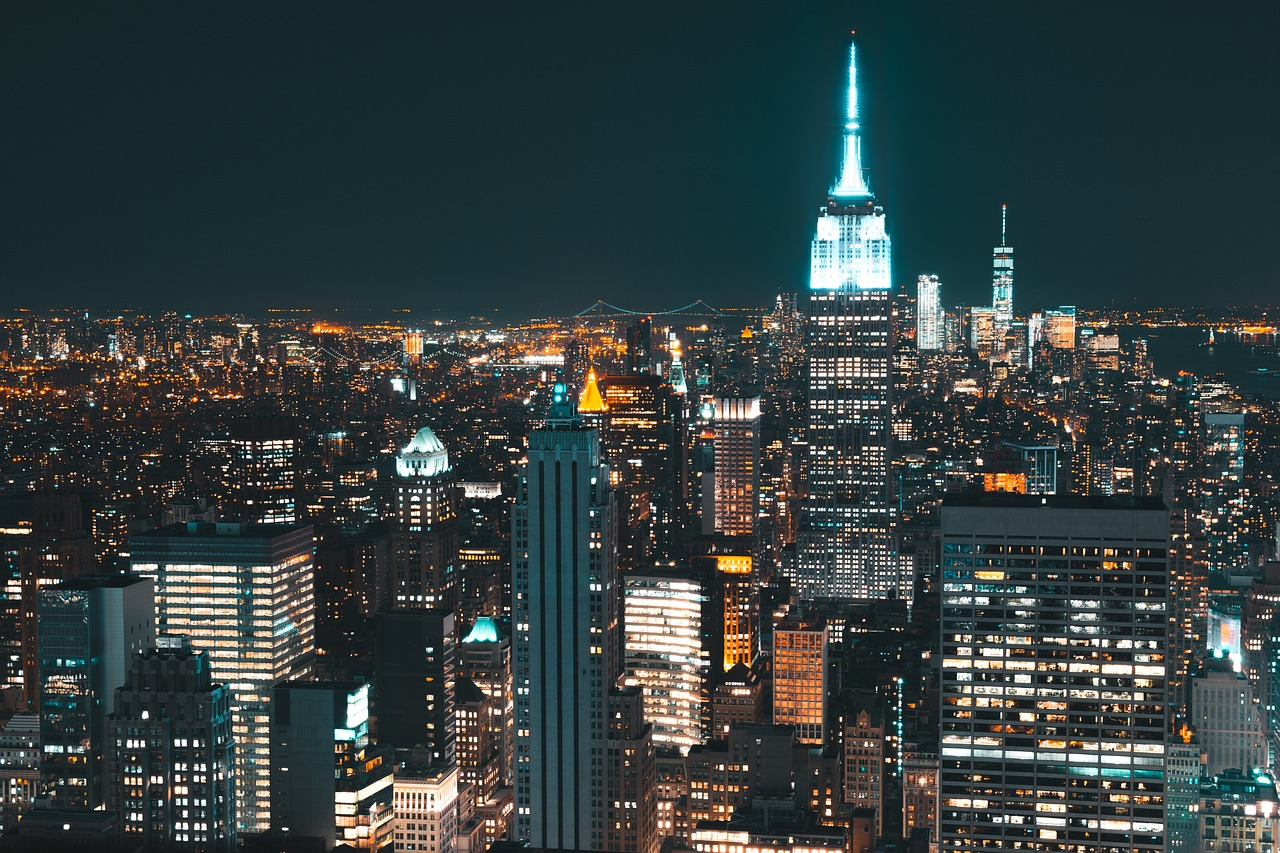
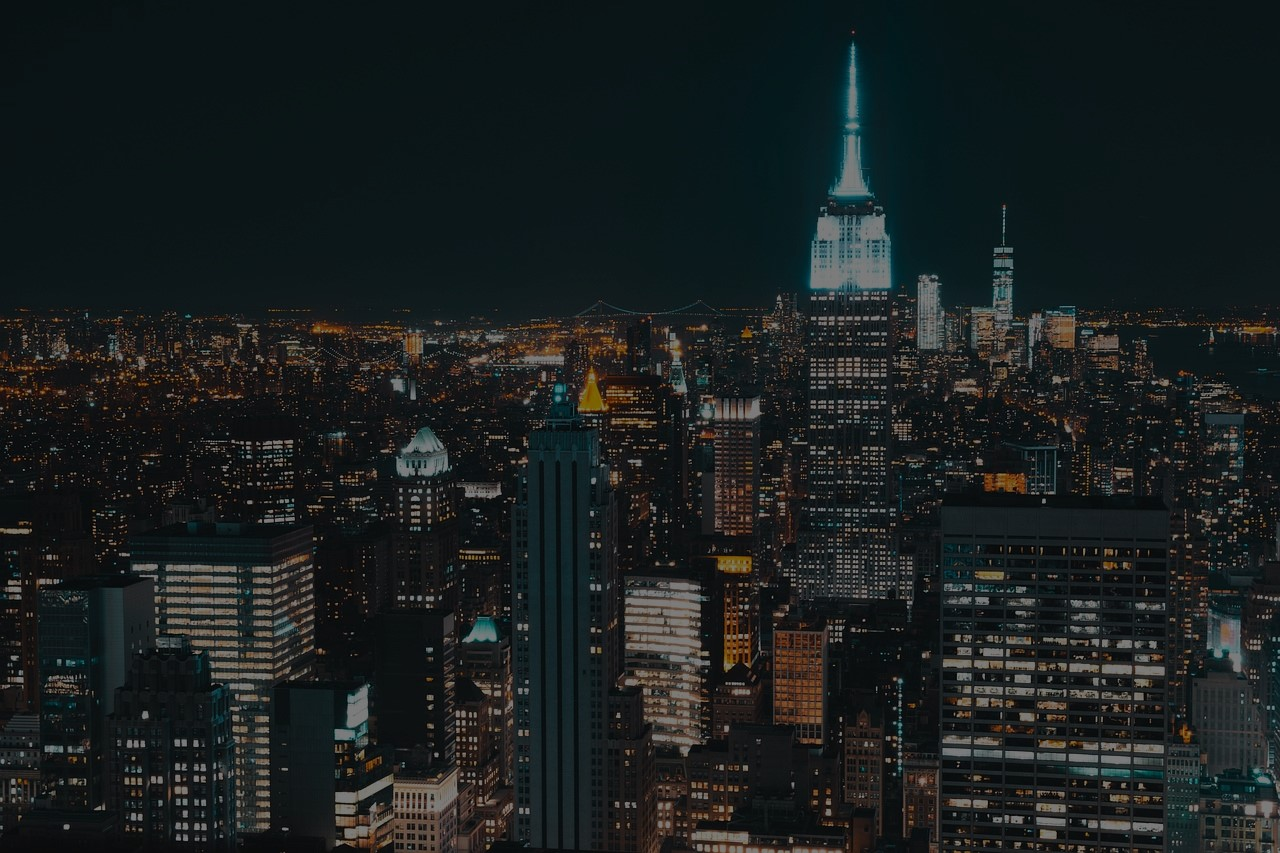
Design change
Heb de homepage en projecten en toekomstige pagina's layout aangepast.

diff --git a/public/css/app.css b/public/css/app.css
@@ -2,12 +2,14 @@
 @tailwind components;
 @tailwind utilities;
 
-*{
-    margin: 0 auto;
-    text-align: center;
+nav a{
+    color: white !important;
 }
 
+/*Home page*/
 #home{
+    margin: 0 auto;
+    text-align: center;
     background-image: url('../images/background-home.jpg') !important;
 }
 
@@ -21,5 +23,33 @@
 
 .center a{
     color: white;
+    font-size: 25px;
 }
 
+.center h1{
+    font-size: 45px;
+    padding-bottom: 10px;
+    border-bottom: 2px solid white;
+}
+
+#aboutme{
+    margin-right: 15px;
+}
+
+/*Project page*/
+.filters{
+    border-radius: 7px;
+    background-color: gray;
+    color: white;
+    text-align: center;
+}
+
+.project{
+    width: 80%;
+}
+
+/*algemeen*/
+
+.min-h-screen.bg-gray-100 {
+    background-image: url('../images/background-home.jpg') !important;
+}

diff --git a/resources/views/layouts/navigation.blade.php b/resources/views/layouts/navigation.blade.php
@@ -1,18 +1,19 @@
-<nav x-data="{ open: false }" class="bg-white border-b border-gray-100">
+<nav x-data="{ open: false }" style="width: 70%; border-bottom: 2px solid white; margin: 0 auto;">
+    <link rel="stylesheet" href="{{asset('css/app.css')}}">
     <!-- Primary Navigation Menu -->
     <div class="max-w-7xl mx-auto px-4 sm:px-6 lg:px-8">
         <div class="flex justify-between h-16">
             <div class="flex">
                 <!-- Logo -->
                 <div class="shrink-0 flex items-center">
-                    <a href="{{ route('dashboard') }}">
-                        <x-application-logo class="block h-9 w-auto fill-current text-gray-800" />
+                    <a href="/">
+                        <h2><span style="color: darkcyan">H</span>ome</h2>
                     </a>
                 </div>
 
                 <!-- Navigation Links -->
                 <div class="hidden space-x-8 sm:-my-px sm:ml-10 sm:flex">
-                    <x-nav-link :href="route('dashboard')" :active="request()->routeIs('dashboard')">
+                    <x-nav-link :href="route('projects.index')" :active="request()->routeIs('projects.index')">
                         {{ __('Dashboard') }}
                     </x-nav-link>
                 </div>

diff --git a/resources/views/project2.blade.php b/resources/views/project2.blade.php
@@ -1,0 +1,31 @@
+<x-app-layout>
+    <x-slot name="header">
+        {{-- Hier komt het filter systeem --}}
+    </x-slot>
+
+    <div class="py-12">
+        <div class="max-w-7xl mx-auto sm:px-6 lg:px-8">
+            <div class="filters">
+                @foreach($caterogies as $caterogy)
+                    <p>{{$caterogy->name}}</p>
+                @endforeach
+            </div>
+            <div class="bg-white overflow-hidden shadow-sm sm:rounded-lg">
+                <div class="p-6 text-gray-900">
+                    <div class="projects">
+                        {{-- Foreach ... as .... --}}
+                        <div class="project">
+                            <div class="image">
+                                <img src="../../public/images/background-home.jpg" alt="test.jpg">
+                            </div>
+                            <div class="title">
+                                <p>Test</p>
+                            </div>
+                        </div>
+                        {{-- endforeach --}}
+                    </div>
+                </div>
+            </div>
+        </div>
+    </div>
+</x-app-layout>

diff --git a/resources/views/project.blade.php b/resources/views/project.blade.php
@@ -1,14 +1,16 @@
 <x-app-layout>
-    <x-slot name="header">
-        {{-- Hier komt het filter systeem --}}
-    </x-slot>
+    <!DOCTYPE html>
+    <html lang="en">
+    <head>
+        <link rel="stylesheet" href="{{asset('css/app.css')}}">
+        <meta charset="UTF-8">
+        <meta name="viewport" content="width=device-width, initial-scale=1.0">
+        <meta http-equiv="X-UA-Compatible" content="ie=edge">
+        <link rel="stylesheet" href="https://stackpath.bootstrapcdn.com/bootstrap/4.5.2/css/bootstrap.min.css" >
+        <title>Forum</title>
+    </head>
 
-    <div class="py-12">
-        <div class="max-w-7xl mx-auto sm:px-6 lg:px-8">
-            <div class="bg-white overflow-hidden shadow-sm sm:rounded-lg">
-                <div class="p-6 text-gray-900">
-                </div>
-            </div>
-        </div>
-    </div>
+    <body class="project">
+        <h1>test</h1>
+    </body>
 </x-app-layout>

diff --git a/app/Http/Controllers/ProjectController.php b/app/Http/Controllers/ProjectController.php
@@ -4,6 +4,7 @@ namespace App\Http\Controllers;
 
 use Illuminate\Http\Request;
 use App\Models\Project;
+use App\Models\Caterogy;
 
 
 class ProjectController extends Controller
@@ -13,8 +14,9 @@ class ProjectController extends Controller
      */
     public function index()
     {
+        $caterogies = Project::orderBy('id', 'desc')->get();
         $projects = Project::orderBy('id', 'desc')->get();
-        return view('/project', compact('projects'));   
+        return view('/project', compact('projects', 'caterogies'));   
     }
 
     /**

diff --git a/resources/views/home.blade.php b/resources/views/home.blade.php
@@ -12,10 +12,10 @@
 <body id="home">
     <main>
         <div class="center">
-            <h1>Welkom op mijn Portfolio</h1>
+            <h1>Anthony Hartog</h1>
             <div class="links">
-                <a href="">Over mij</a>
-                <a href="/projects">Projecten</a>
+                <a id="aboutme" href="#test">Over mij</a>
+                <a href="{{ route('projects.index') }}">Projecten</a>
             </div>
         </div>
     </main>
